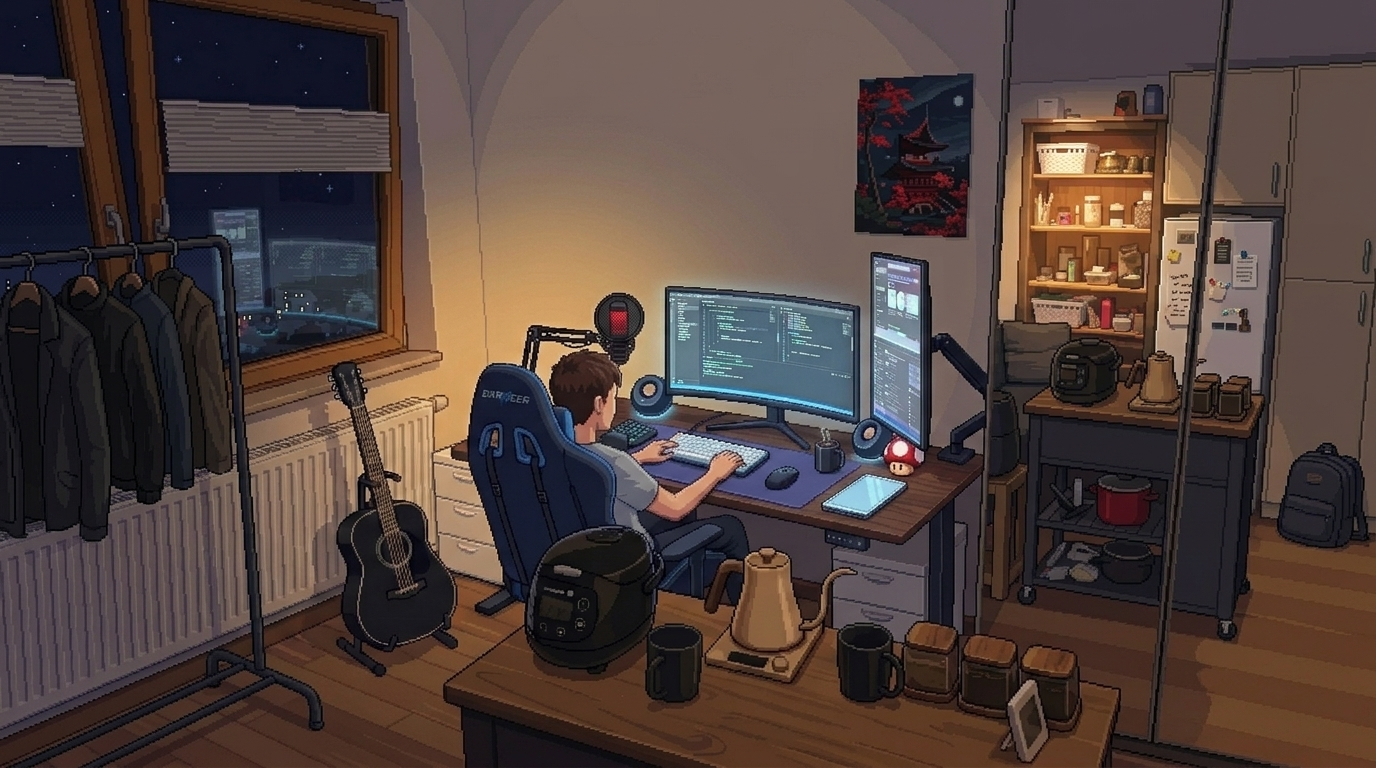
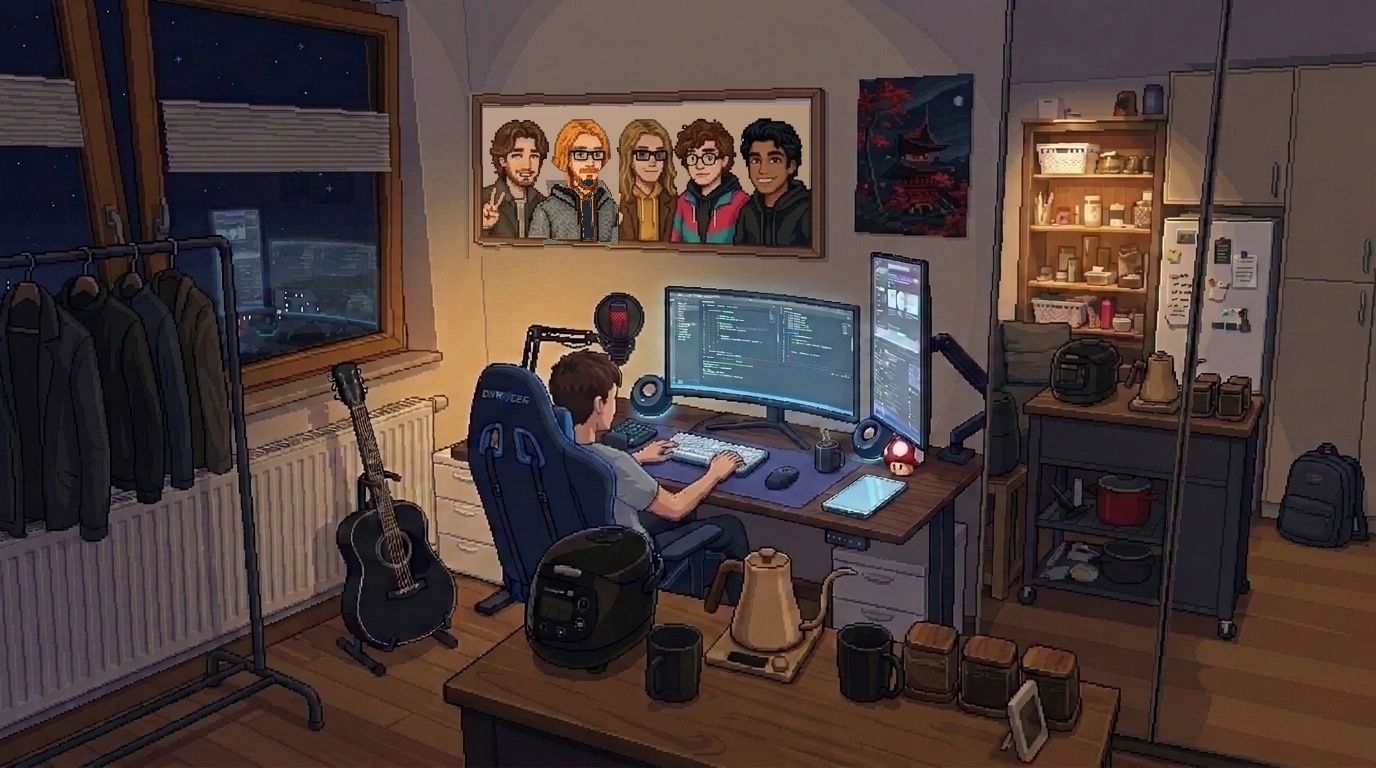
feat: update OG friends desk painting with 5 friends & add Heidelberg student life pixel art backgrounds
- Update desk-bg.jpg with widened wooden frame depicting all 5 OG friends
- Refine 5th friend with jawline-length hair and natural front-to-back shoulder layering
- Add Heidelberg university pixel art backgrounds (uni-og-bg, uni-og-bg-mobile, cafe-park-bg)
- Implement HangoutsBgObserver for dynamic scroll crossfade on Heidelberg page
- Add categorized character sprites in public/characters/

diff --git a/src/styles/custom.css b/src/styles/custom.css
@@ -12,7 +12,8 @@ html[data-has-hero] body,
 html[data-page-bg] body,
 body:has(.page-bg-desk),
 body:has(.page-bg-audimax),
-body:has(.page-bg-japanese) {
+body:has(.page-bg-japanese),
+body:has(.page-bg-uni-og) {
   position: relative;
   background-color: var(--sl-color-bg);
 }
@@ -21,9 +22,11 @@ html[data-has-hero] body::before,
 html[data-page-bg="desk"] body::before,
 html[data-page-bg="audimax"] body::before,
 html[data-page-bg="japanese"] body::before,
+html[data-page-bg="uni-og"] body::before,
 body:has(.page-bg-desk)::before,
 body:has(.page-bg-audimax)::before,
-body:has(.page-bg-japanese)::before {
+body:has(.page-bg-japanese)::before,
+body:has(.page-bg-uni-og)::before {
   content: '';
   position: fixed;
   inset: 0;
@@ -61,6 +64,51 @@ body:has(.page-bg-japanese)::before {
   opacity: 0.28;
 }
 
+html[data-page-bg="uni-og"] body::before,
+body:has(.page-bg-uni-og)::before {
+  background-image: url('/uni-og-bg.jpg');
+  background-position: right bottom;
+  opacity: 0.28;
+  transition: opacity 0.8s ease-in-out;
+}
+
+/* Secondary cross-fade pixel art layer: Café Park (Student Hangouts) */
+html[data-page-bg="uni-og"] body::after,
+body:has(.page-bg-uni-og)::after {
+  content: '';
+  position: fixed;
+  inset: 0;
+  background-size: cover;
+  background-repeat: no-repeat;
+  image-rendering: pixelated;
+  pointer-events: none;
+  z-index: 0;
+  background-image: url('/cafe-park-bg.jpg');
+  background-position: right bottom;
+  opacity: 0;
+  transition: opacity 0.8s ease-in-out;
+}
+
+/* Active Student Hangouts State (Cross-fade) */
+html[data-hangouts-active="true"] body::before,
+body.bg-hangouts-active::before {
+  opacity: 0;
+}
+
+html[data-hangouts-active="true"] body::after,
+body.bg-hangouts-active::after {
+  opacity: 0.28;
+}
+
+@media (prefers-reduced-motion: reduce) {
+  html[data-page-bg="uni-og"] body::before,
+  body:has(.page-bg-uni-og)::before,
+  html[data-page-bg="uni-og"] body::after,
+  body:has(.page-bg-uni-og)::after {
+    transition: none !important;
+  }
+}
+
 @media (max-width: 50rem), (orientation: portrait) {
   html[data-page-bg="japanese"] body::before,
   body:has(.page-bg-japanese)::before {
@@ -69,13 +117,30 @@ body:has(.page-bg-japanese)::before {
     background-size: 100% auto;
     background-position: center bottom;
   }
+
+  html[data-page-bg="uni-og"] body::before,
+  body:has(.page-bg-uni-og)::before {
+    background-color: #242b3e;
+    background-image: url('/uni-og-bg-mobile.jpg');
+    background-size: 100% auto;
+    background-position: center bottom;
+  }
+
+  html[data-page-bg="uni-og"] body::after,
+  body:has(.page-bg-uni-og)::after {
+    background-color: #242b3e;
+    background-image: url('/cafe-park-bg.jpg');
+    background-size: cover;
+    background-position: center center;
+  }
 }
 
 html[data-has-hero] .page,
 html[data-page-bg] .page,
 body:has(.page-bg-desk) .page,
 body:has(.page-bg-audimax) .page,
-body:has(.page-bg-japanese) .page {
+body:has(.page-bg-japanese) .page,
+body:has(.page-bg-uni-og) .page {
   position: relative;
   z-index: 1;
 }
@@ -84,7 +149,8 @@ html[data-has-hero] .header,
 html[data-page-bg] .header,
 body:has(.page-bg-desk) .header,
 body:has(.page-bg-audimax) .header,
-body:has(.page-bg-japanese) .header {
+body:has(.page-bg-japanese) .header,
+body:has(.page-bg-uni-og) .header {
   background-color: color-mix(in srgb, var(--sl-color-bg-nav) 80%, transparent);
   backdrop-filter: blur(8px);
 }
@@ -93,7 +159,8 @@ body:has(.page-bg-japanese) .header {
   html[data-page-bg] .sidebar-pane,
   body:has(.page-bg-desk) .sidebar-pane,
   body:has(.page-bg-audimax) .sidebar-pane,
-  body:has(.page-bg-japanese) .sidebar-pane {
+  body:has(.page-bg-japanese) .sidebar-pane,
+  body:has(.page-bg-uni-og) .sidebar-pane {
     background-color: color-mix(in srgb, var(--sl-color-bg-sidebar) 75%, transparent);
     backdrop-filter: blur(8px);
   }
@@ -103,14 +170,16 @@ html[data-has-hero] .card,
 html[data-page-bg] .card,
 body:has(.page-bg-desk) .card,
 body:has(.page-bg-audimax) .card,
-body:has(.page-bg-japanese) .card {
+body:has(.page-bg-japanese) .card,
+body:has(.page-bg-uni-og) .card {
   background-color: color-mix(in srgb, var(--sl-color-gray-6) 75%, transparent);
   backdrop-filter: blur(4px);
 }
 
 .page-bg-desk,
 .page-bg-audimax,
-.page-bg-japanese {
+.page-bg-japanese,
+.page-bg-uni-og {
   display: none;
 }
 
